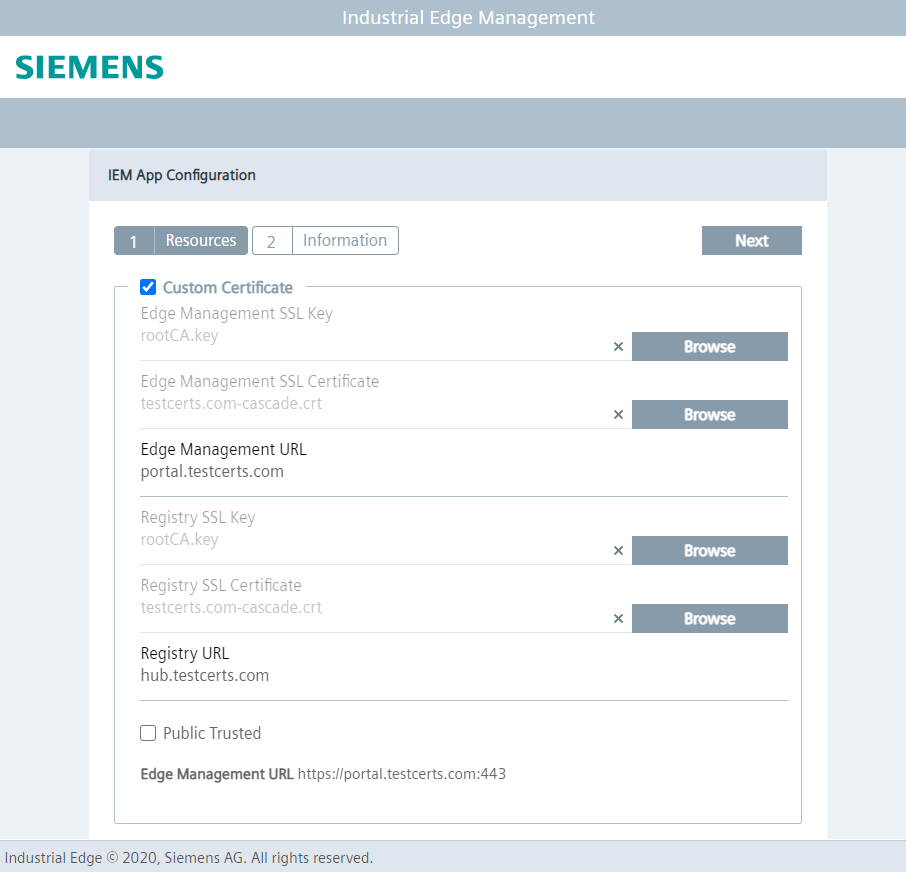
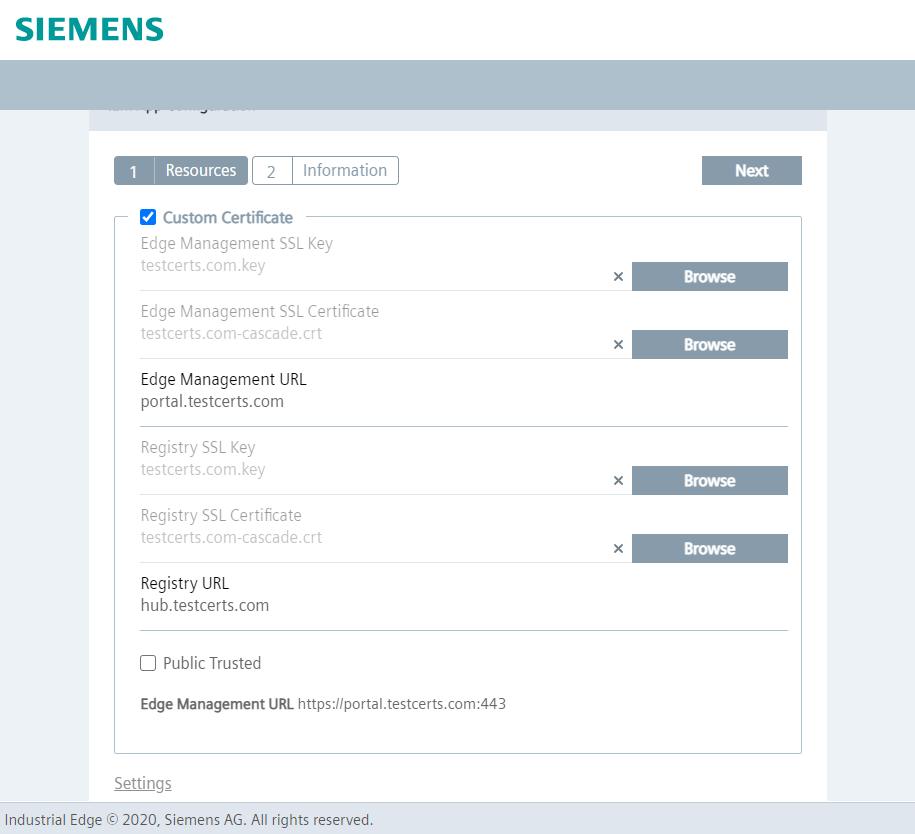
fix #1

diff --git a/README.md b/README.md
@@ -13,7 +13,7 @@ Launch it passing your domain:
 ./cert-generator.sh testcerts.com
 ```
 
-**./certs** folder will be created containing **testcerts.com-cascade.crt** and **rootCA.key** file will be generated can be imported to IEM installation:
+**./certs** folder will be created containing **testcerts.com-cascade.crt** and **testcerts.com.key** file will be generated can be imported to IEM installation:
 
 
 ## Import during IEM install
